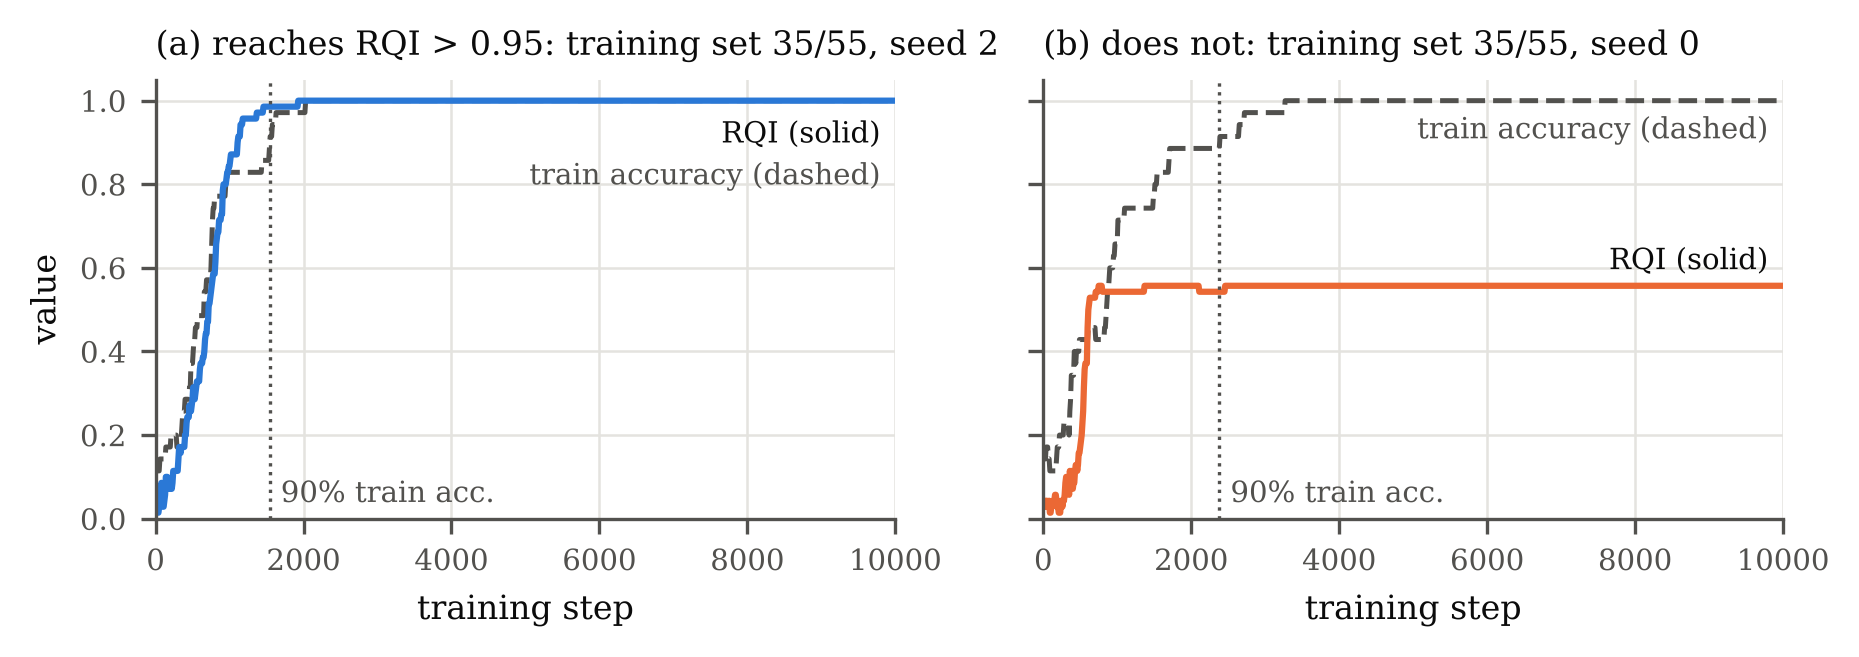
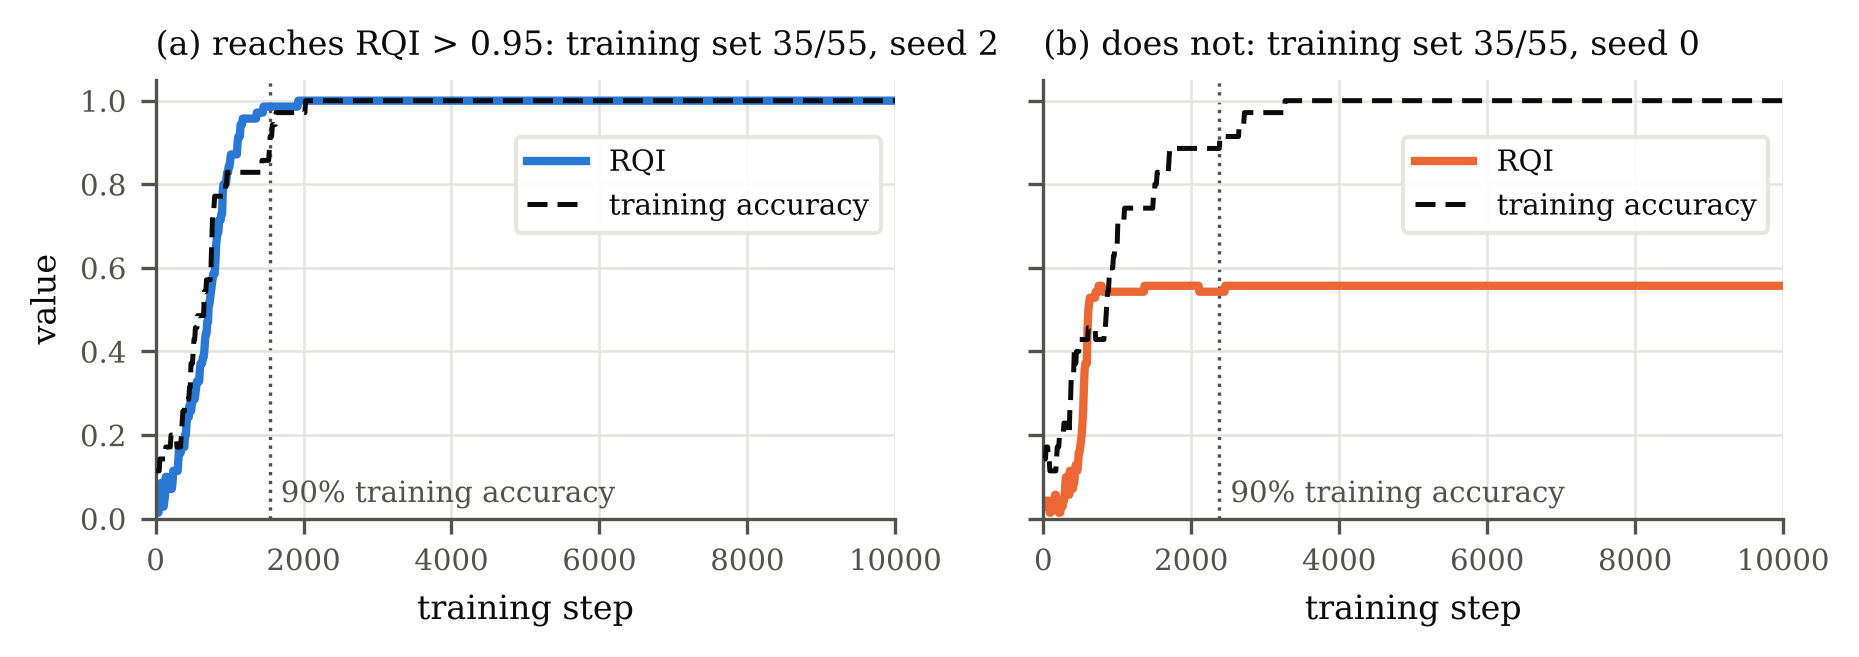
Figures: legends in fig_examples and fig_movement, training accuracy drawn on top

diff --git a/experiments/analyse.py b/experiments/analyse.py
@@ -253,16 +253,16 @@ def fig_examples(data, n=35):
     fig, axes = plt.subplots(1, 2, figsize=(FULL, 1.9), sharey=True)
     for ax, r, title in zip(axes, pick, ["(a) reaches RQI > 0.95", "(b) does not"]):
         d = trace("released", r)
-        ax.plot(d["step"], d["acc_train"], color=INK2, lw=1.2, ls="--")
-        ax.plot(d["step"], d["rqi"], color=SUCCESS if r["ok"] else FAILURE)
+        # RQI first, training accuracy on top, so the dashed line stays visible at 1.0
+        ax.plot(d["step"], d["rqi"], color=SUCCESS if r["ok"] else FAILURE, lw=2.0,
+                label="RQI", zorder=2)
+        ax.plot(d["step"], d["acc_train"], color=INK, lw=1.2, ls=(0, (4, 2)),
+                label="training accuracy", zorder=3)
         t90 = r["iter_train90"]
-        ax.axvline(t90, color=INK2, lw=0.8, ls=":")
-        ax.text(t90 + 150, 0.04, "90% train acc.", color=INK2, fontsize=7)
-        same = abs(d["acc_train"][-1] - d["rqi"][-1]) < 0.1
-        ax.text(9800, d["acc_train"][-1] - (0.2 if same else 0.09), "train accuracy (dashed)",
-                color=INK2, fontsize=7, ha="right")
-        ax.text(9800, d["rqi"][-1] + (-0.1 if same else 0.04), "RQI (solid)", color=INK,
-                fontsize=7, ha="right")
+        ax.axvline(t90, color=INK2, lw=0.8, ls=":", zorder=1)
+        ax.text(t90 + 150, 0.04, "90% training accuracy", color=INK2, fontsize=7)
+        ax.legend(loc="center right", bbox_to_anchor=(1.0, 0.76), frameon=True,
+                  framealpha=0.9, edgecolor=GRID)
         ax.set_title(f"{title}: training set {n}/55, seed {int(r['seed'])}", loc="left")
         ax.set_xlabel("training step")
         ax.set_xlim(0, 10000)
@@ -319,15 +319,15 @@ def fig_movement(data, tag="released"):
         path.append(b)
     net, path = np.array(net), np.array(path)
     fig, ax = plt.subplots(figsize=(COL, 2.0))
-    ax.plot(offs, np.nanmedian(path, 0), color=FAILURE, ls="--", lw=1.2)
-    ax.plot(offs, np.nanmedian(net, 0), color=FAILURE)
-    ax.axvline(0, color=INK2, lw=0.8, ls=":")
+    ax.plot(offs, np.nanmedian(path, 0), color=FAILURE, ls=(0, (4, 2)), lw=1.2,
+            label="path length (sum of all steps)")
+    ax.plot(offs, np.nanmedian(net, 0), color=FAILURE,
+            label="net displacement (start to end)")
+    ax.axvline(0, color=INK2, lw=0.8, ls=":", label="90% training accuracy reached")
     ax.set_yscale("log")
     ax.set_xlabel("steps relative to 90% training accuracy")
     ax.set_ylabel("distance per 500 steps")
-    ax.text(4900, np.nanmedian(path, 0)[-1] * 1.4, "path length", ha="right", fontsize=7)
-    ax.text(2300, np.nanmedian(net, 0)[np.searchsorted(offs, 2300)] * 0.55,
-            "net displacement", ha="right", fontsize=7)
+    ax.legend(loc="upper right", frameon=True, framealpha=0.9, edgecolor=GRID)
     ax.set_title(f"runs that do not reach RQI > 0.95 (released, median of {len(net)})",
                  loc="left")
     save(fig, "fig_movement")
